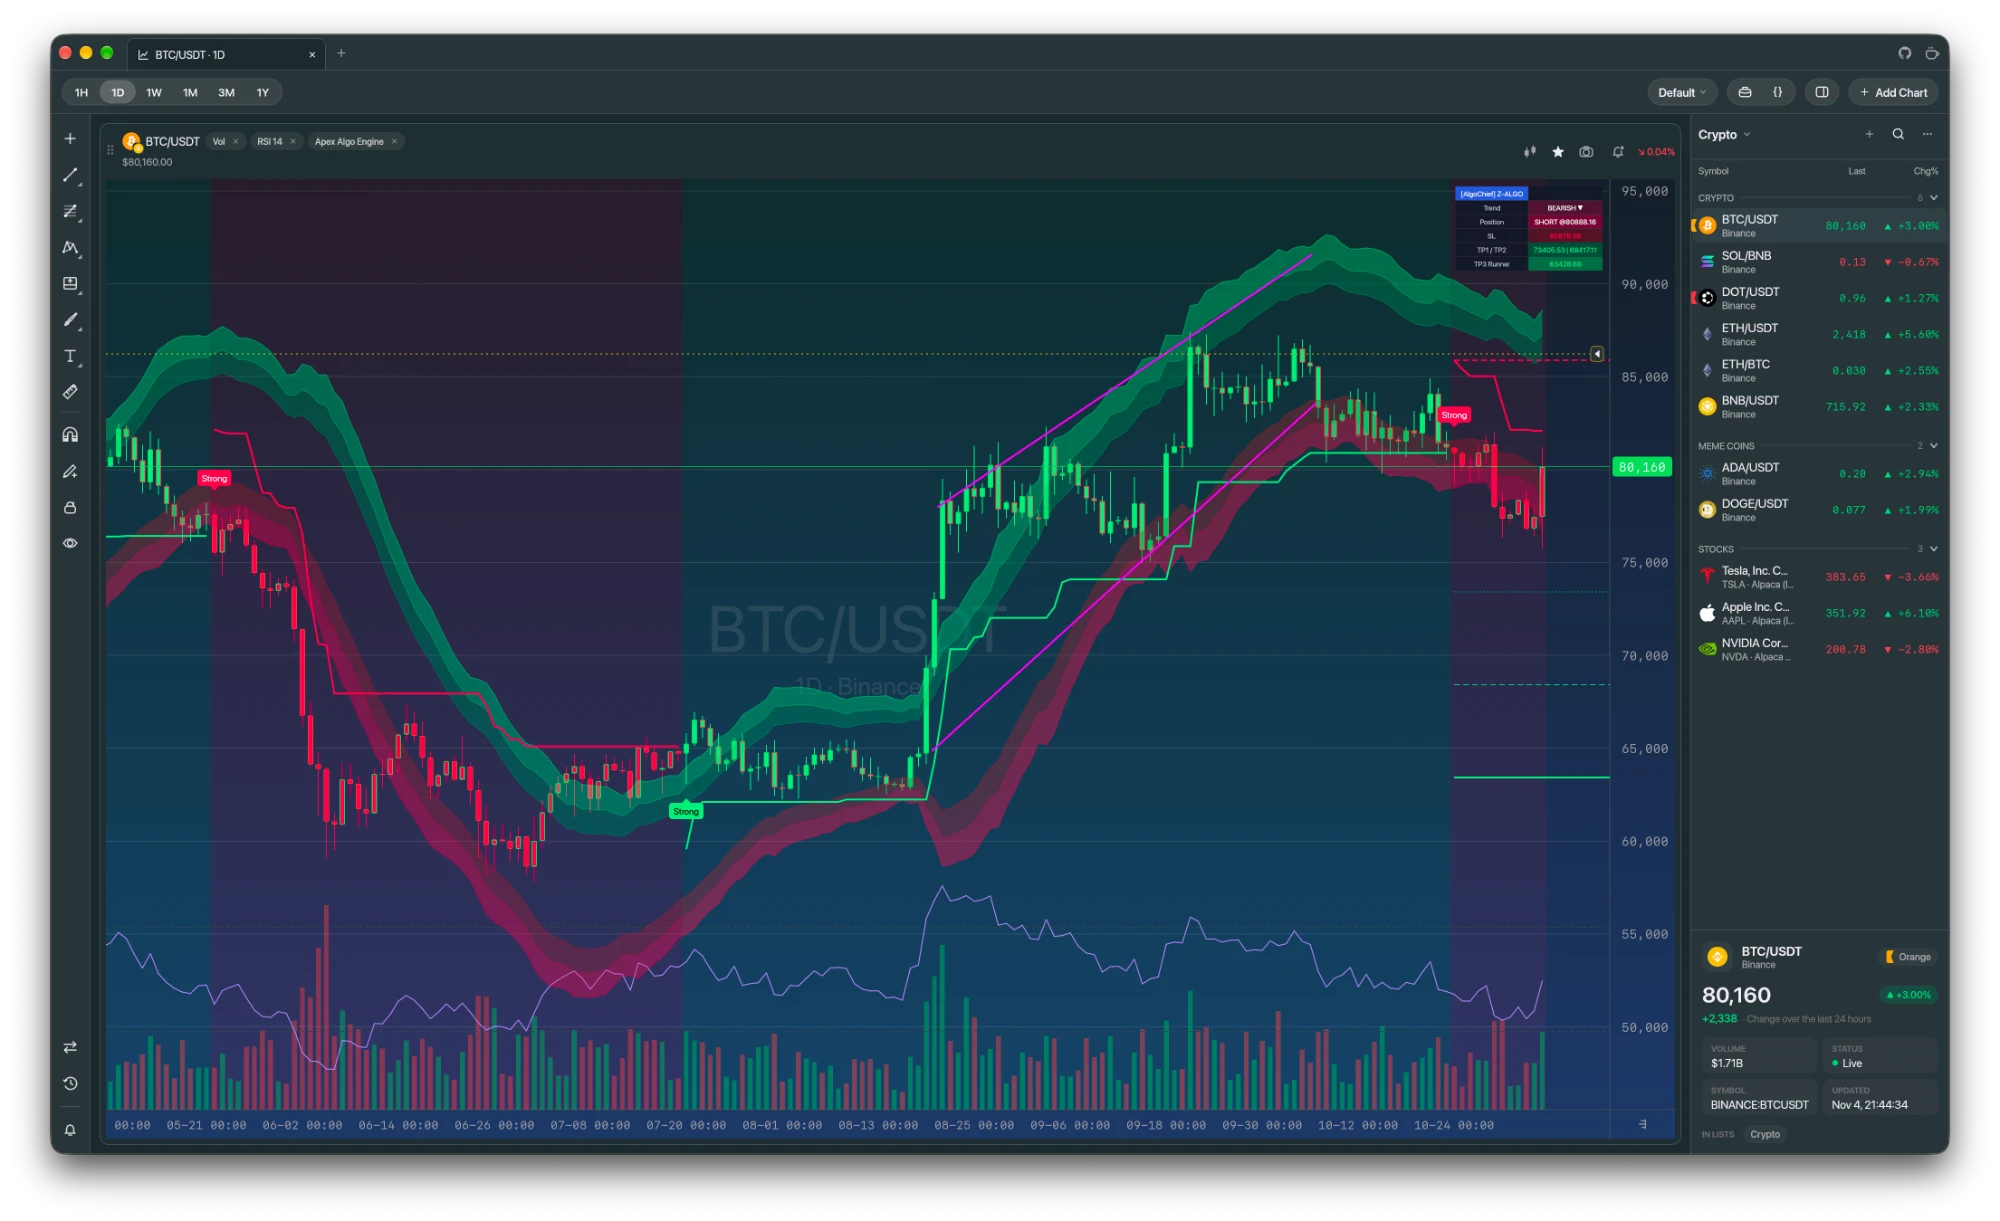
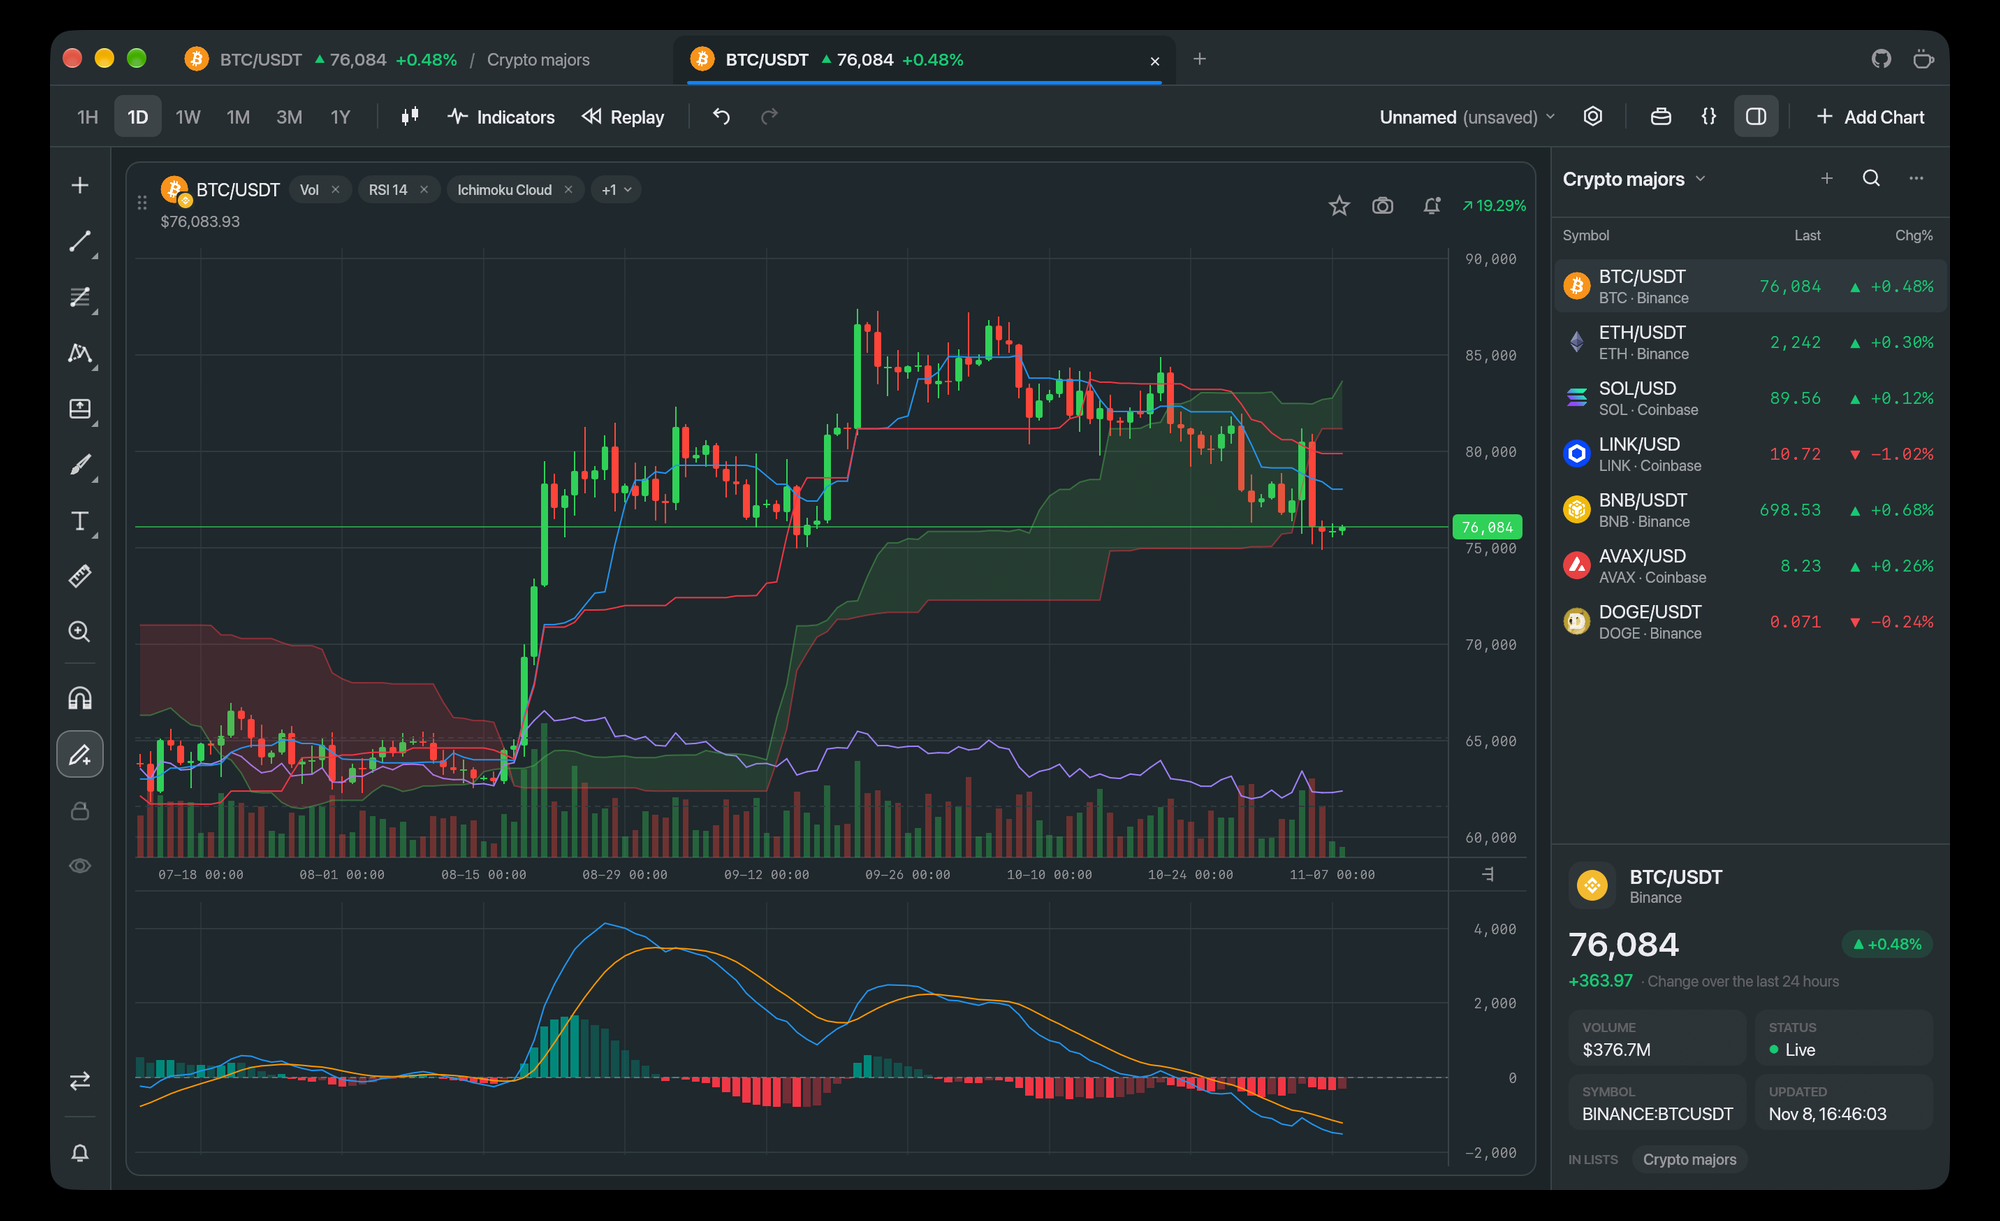
README: new screenshot of the flat toolbar and indicator list; fix stale header mentions
Retake the main screenshot (2000x1221, plain sRGB PNG, same path so the Flatpak
metainfo URL still resolves) to show the flat toolbar, the bundled Ichimoku
Cloud and MACD indicators and a watchlist. Say in the feature list that there
are 25 built-in indicators added from the toolbar's picker, and fix two docs
that still named the chart header's chart-type selector.

diff --git a/README.md b/README.md
@@ -56,7 +56,9 @@ leaving your device.
 
 - Hand-drawn OHLC candlesticks, line series, grid, time axis, adaptive price precision,
   current-price overlay, and price-change readout — no third-party chart library.
-- **Indicators** — Volume, RSI, configurable EMA, Bollinger Bands, and Supertrend flip markers.
+- **Indicators** — 25 built in: Volume, RSI, configurable EMA, Bollinger Bands and Supertrend flip markers,
+  plus 20 bundled Pine indicators (Ichimoku Cloud, MACD, VWAP, Stochastic and more), added from the
+  toolbar's searchable picker with a preview of each.
 - **Trend lines, Fibonacci retracements, and brush strokes** — anchored to time and price, with
   per-window undo/redo (⌘Z / ⇧⌘Z).
 - **Ruler** — Temporary move measurement (percent, price, duration, bar count).

diff --git a/docs/chart-canvas.md b/docs/chart-canvas.md
@@ -155,7 +155,7 @@ market, not the look.
   against `Construction::of` for every type, so its data does not move.
 - **Applying** goes through `ChartCard::apply_template`; a different chart type goes through
   `set_chart_type`, which resets the scroll and rebuilds the constructed bars exactly as the
-  header selector does. Nothing is replaced wholesale, so scripts, indicators, drawings and alerts
+  toolbar's chart-type menu does. Nothing is replaced wholesale, so scripts, indicators, drawings and alerts
   stay.
 - **Presets** (Default Dark, Default Light, Minimal, High Contrast, Presentation) are built from
   code, never stored, cannot be changed and can be duplicated into editable templates.

diff --git a/docs/chart-types.md b/docs/chart-types.md
@@ -66,7 +66,7 @@ sample prices (a price-based type's box/reversal/range size is replaced by one t
 
 Switching Candles ⇄ Line ⇄ Bars never changes what scripts and indicators receive. Switching to or
 from a price-based type rebuilds them against the other series. A source that draws a line
-(prediction markets, CoinMarketCap indices) keeps its line and offers no selector; Volume Candles
+(prediction markets, CoinMarketCap indices) keeps its line and the toolbar's chart-type button is disabled; Volume Candles
 is unavailable on a source that reports no volume, with the reason in the menu. A saved type the
 source cannot show falls back to candles on screen and is kept for when it can.
 
